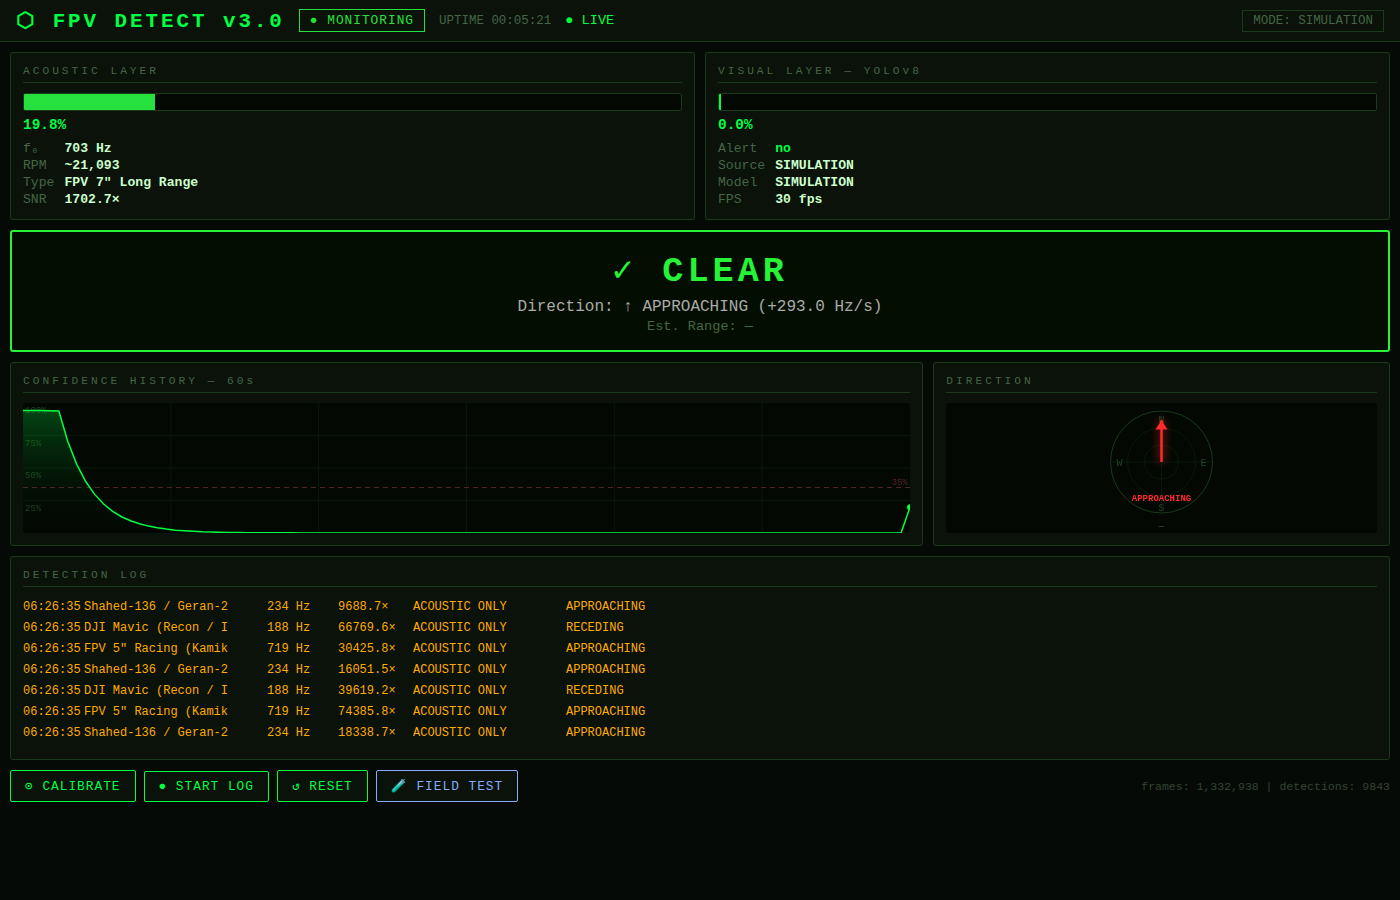
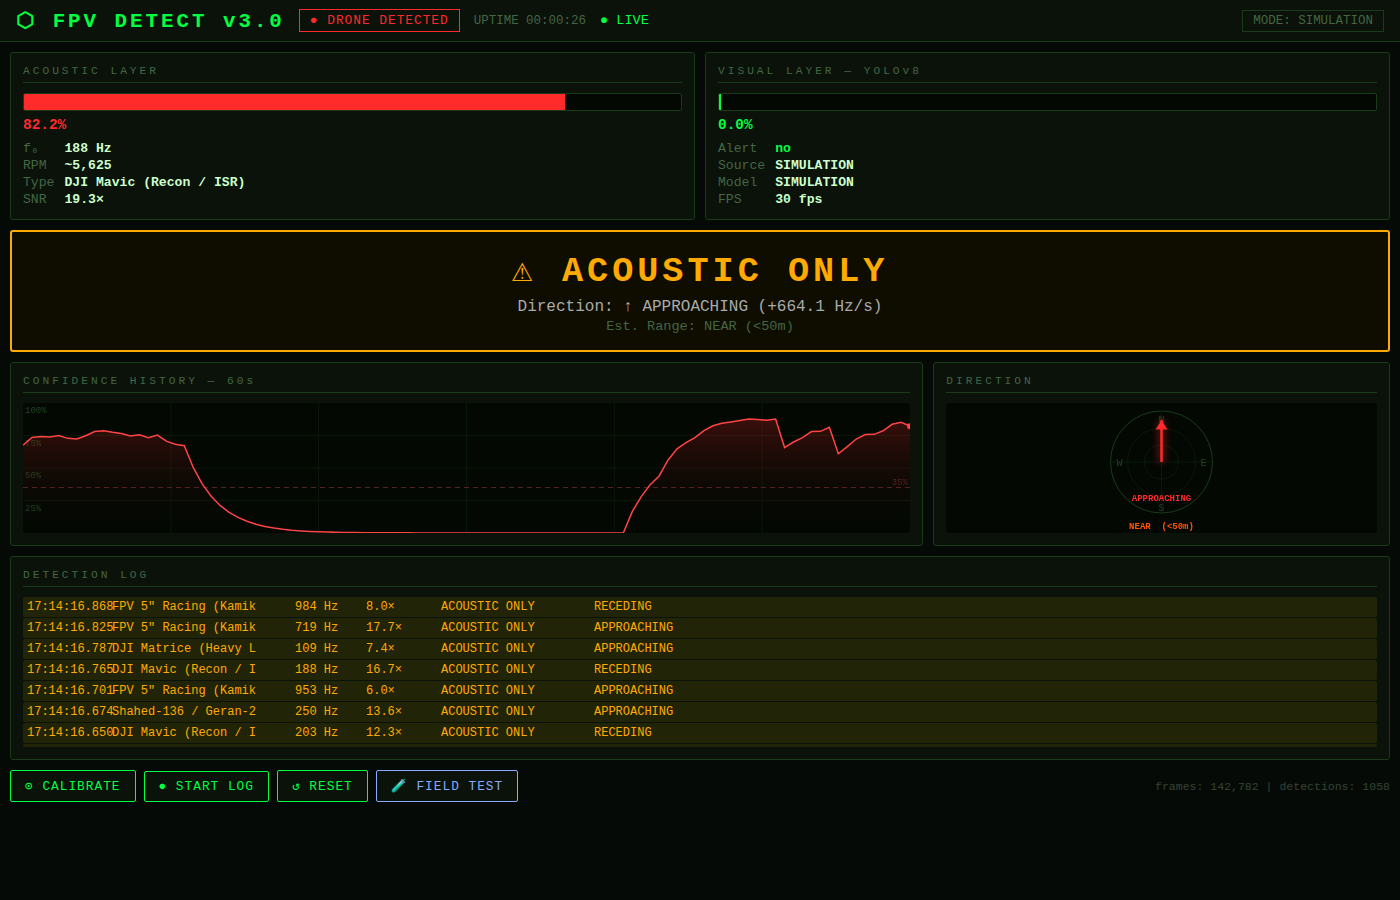
UI improvements: realistic SNR, timestamps, radar pulse, sound alerts, wizard
- SimulatedAudio: reduce amplitude 10000→120 so SNR is 6–15× (realistic)
- Detection log: millisecond timestamps so rapid events are distinguishable
- Threat border: remove CSS transition on border-color so it switches instantly
- Log rows: background tint per threat level (red/yellow/blue/none)
- Radar: dim arrow (opacity 0.22) when CLEAR; bright red + requestAnimationFrame
  pulse glow when APPROACHING + alarm active
- Sound alerts: Web Audio API beep on threat change (880Hz CONFIRMED, 440Hz ACOUSTIC ONLY)
- Wizard panel: Hebrew intro text RTL-aligned; all 7 steps always visible with
  ⬜/🔵/✅/❌ icons; 🔵 blink animation on current step; display names
  BASELINE/DETECTION/DOPPLER/RANGE 50m/MULTI-TYPE/VISUAL/REPORT

https://claude.ai/code/session_01XXFK8R6eK2YdHUDSUoeeWk

diff --git a/web_ui.py b/web_ui.py
@@ -522,7 +522,7 @@ body{background:#060a06;color:#00ff41;font-family:'Courier New',monospace;min-he
 .dg{display:grid;grid-template-columns:auto 1fr;gap:2px 10px;font-size:.82em}
 .dl{color:#446644}.dv{color:#ccffcc;font-weight:bold}
 /* ── Threat ── */
-#threat{grid-column:1/-1;text-align:center;padding:16px 10px;border:2px solid #1a3a1a;border-radius:3px;transition:border-color .3s,background .4s}
+#threat{grid-column:1/-1;text-align:center;padding:16px 10px;border:2px solid #1a3a1a;border-radius:3px;transition:background .4s}
 #threat.c-CONFIRMED{border-color:#ff0000;background:#120000;animation:pborder .8s infinite}
 #threat.c-ACOUSTIC{border-color:#ffaa00;background:#0e0d00}
 #threat.c-VISUAL{border-color:#4488ff;background:#00000e}
@@ -534,6 +534,8 @@ body{background:#060a06;color:#00ff41;font-family:'Courier New',monospace;min-he
 #thr-txt.c-VISUAL{color:#4488ff}
 #thr-txt.c-CLEAR{color:#00ff41}
 @keyframes blink{0%,49%{opacity:1}50%,100%{opacity:.25}}
+@keyframes wiz-blink{0%,100%{opacity:1}50%{opacity:.25}}
+.blink-step .ws-icon{animation:wiz-blink .9s infinite}
 #thr-dir{font-size:1em;color:#aaa;margin-top:4px}
 #thr-range{font-size:.85em;color:#446644;margin-top:3px}
 /* ── Canvas row ── */
@@ -543,8 +545,8 @@ canvas{display:block;width:100%;border-radius:2px}
 #log-block{grid-column:1/-1}
 #log-ul{list-style:none;max-height:150px;overflow-y:auto;font-size:.75em}
 #log-ul::-webkit-scrollbar{width:3px}#log-ul::-webkit-scrollbar-thumb{background:#1a3a1a}
-.le{padding:3px 0;border-bottom:1px solid #0a120a;display:grid;grid-template-columns:58px 180px 68px 72px 150px auto;gap:3px}
-.le.confirmed{color:#ff4444}.le.acoustic{color:#ffaa00}.le.visual{color:#5599ff}.le.clear{color:#446644}
+.le{padding:3px 4px;border-bottom:1px solid #0a120a;display:grid;grid-template-columns:82px 180px 68px 72px 150px auto;gap:3px;border-radius:2px}
+.le.confirmed{color:#ff4444;background:rgba(255,0,0,0.15)}.le.acoustic{color:#ffaa00;background:rgba(255,200,0,0.10)}.le.visual{color:#5599ff;background:rgba(0,100,255,0.10)}.le.clear{color:#446644}
 /* ── Controls ── */
 #ctrls{grid-column:1/-1;display:flex;gap:8px;align-items:center;flex-wrap:wrap}
 button{background:#0a120a;border:1px solid #00ff41;color:#00ff41;padding:7px 14px;
@@ -586,7 +588,7 @@ button.wiz-btn:hover{background:#0a0a20}
 .ws-pfill{height:100%;background:#00ff41;transition:width .5s}
 /* instruction box */
 #wiz-instr{background:#040d04;border:1px solid #00ff4144;border-radius:3px;padding:10px 12px;
-           font-size:.82em;line-height:1.5;color:#99ccaa;text-align:right}
+           font-size:.82em;line-height:1.5;color:#99ccaa;text-align:right;direction:rtl}
 /* wiz controls */
 #wiz-ctrls{display:flex;gap:6px;padding:0 0 4px 0;flex-wrap:wrap}
 #wiz-ctrls button{font-size:.78em;padding:6px 12px}
@@ -697,8 +699,8 @@ button.wiz-btn:hover{background:#0a0a20}
     <button id="wiz-close" onclick="closeWizard()" title="Close">✕</button>
   </div>
   <div id="wiz-body">
-    <div id="wiz-not-started" style="color:#446644;font-size:.85em;text-align:center;padding:20px">
-      לחץ BEGIN WIZARD להתחלת בדיקת שטח מודרכת
+    <div id="wiz-not-started" style="color:#446644;font-size:.85em;text-align:right;direction:rtl;padding:10px 12px;border-bottom:1px solid #1a3a1a;margin-bottom:4px">
+      לחץ ▶▶ BEGIN WIZARD להתחלת בדיקת שדה מודרכת
     </div>
     <div id="wiz-steps" style="display:none"></div>
     <div id="wiz-instr" style="display:none"></div>
@@ -713,6 +715,28 @@ button.wiz-btn:hover{background:#0a0a20}
 </div>
 
 <script>
+// ── Audio alerts (Web Audio API) ─────────────────────────────────────
+let _audioCtx = null, _prevThreat = 'CLEAR';
+function _initAudio() {
+  if (!_audioCtx) _audioCtx = new (window.AudioContext || window.webkitAudioContext)();
+  if (_audioCtx.state === 'suspended') _audioCtx.resume();
+}
+function _beep(freq, dur, vol) {
+  try {
+    _initAudio();
+    const o = _audioCtx.createOscillator(), g = _audioCtx.createGain();
+    o.connect(g); g.connect(_audioCtx.destination);
+    o.frequency.value = freq;
+    g.gain.setValueAtTime(vol, _audioCtx.currentTime);
+    g.gain.exponentialRampToValueAtTime(0.001, _audioCtx.currentTime + dur);
+    o.start(); o.stop(_audioCtx.currentTime + dur);
+  } catch(e) {}
+}
+document.addEventListener('click', _initAudio);
+
+// ── Radar RAF state ───────────────────────────────────────────────────
+let _lastRadar = {direction:'STABLE', rate:0, range:'', alarm:false};
+
 // ── WebSocket ────────────────────────────────────────────────────────
 let ws, reconnTimer, lastLogJSON = "";
 
@@ -789,6 +813,13 @@ function update(d) {
   document.getElementById('thr-dir').textContent  = `Direction: ${DIR[d.direction] || d.direction}${rate}`;
   document.getElementById('thr-range').textContent = `Est. Range: ${d.range_estimate || '—'}`;
 
+  // sound alert on threat change
+  if (d.combined_threat !== _prevThreat) {
+    if (d.combined_threat === 'CONFIRMED')     _beep(880, 0.4, 0.3);
+    if (d.combined_threat === 'ACOUSTIC ONLY') _beep(440, 0.25, 0.2);
+    _prevThreat = d.combined_threat;
+  }
+
   // stats
   document.getElementById('stats-r').textContent =
     `frames: ${d.frames.toLocaleString()} | detections: ${d.detections}`;
@@ -826,7 +857,7 @@ function update(d) {
 
   // canvases
   drawHistory(d.history || [], d.acoustic_confidence, d.alarm);
-  drawRadar(d.direction, d.direction_rate, d.range_estimate);
+  _lastRadar = {direction:d.direction, rate:d.direction_rate, range:d.range_estimate, alarm:d.alarm};
 
   // wizard
   if (d.wizard) updateWizard(d.wizard);
@@ -895,7 +926,7 @@ function drawHistory(hist, curConf, alarm) {
 }
 
 // ── Direction radar canvas ───────────────────────────────────────────
-function drawRadar(direction, rate, range) {
+function drawRadar(direction, rate, range, alarm) {
   const cv = document.getElementById('radar-cv');
   const card = document.getElementById('radar-card');
   const W = card.clientWidth - 24;
@@ -929,19 +960,34 @@ function drawRadar(direction, rate, range) {
 
   if (direction === 'STABLE') {
     ctx.beginPath(); ctx.arc(cx,cy,r*.18,0,2*Math.PI);
-    ctx.strokeStyle='#00ff41'; ctx.lineWidth=2; ctx.stroke();
-    ctx.fillStyle='#00ff4122'; ctx.fill();
-    ctx.fillStyle='#00ff41'; ctx.font='bold 8px Courier New'; ctx.textAlign='center';
+    ctx.strokeStyle = alarm ? '#00ff41' : '#224422'; ctx.lineWidth=2; ctx.stroke();
+    ctx.fillStyle = alarm ? '#00ff4122' : '#0a180a'; ctx.fill();
+    ctx.fillStyle = alarm ? '#00ff41' : '#224422';
+    ctx.font='bold 8px Courier New'; ctx.textAlign='center';
     ctx.fillText('STABLE',cx,cy+4); return;
   }
 
-  const ang   = direction==='APPROACHING' ? -Math.PI/2 : Math.PI/2;
-  const color = direction==='APPROACHING' ? '#ff2a2a' : '#ffaa00';
-  const alen  = r * (direction==='APPROACHING' ? .82 : .72);
+  const isHot   = alarm && direction === 'APPROACHING';
+  const isWarm  = alarm && direction === 'RECEDING';
+  const baseClr = direction === 'APPROACHING' ? '#ff2a2a' : '#ffaa00';
+  const dimClr  = direction === 'APPROACHING' ? 'rgba(255,42,42,0.22)' : 'rgba(255,170,0,0.22)';
+  const color   = (isHot || isWarm) ? baseClr : dimClr;
+  const lineW   = (isHot || isWarm) ? 2.5 : 1.2;
+
+  let shadowBlur = 0;
+  if (isHot) {
+    const pulse = 0.5 + 0.5 * Math.sin(Date.now() / 200);
+    shadowBlur = 8 + 20 * pulse;
+  } else if (isWarm) {
+    shadowBlur = 6;
+  }
+
+  const ang  = direction === 'APPROACHING' ? -Math.PI/2 : Math.PI/2;
+  const alen = r * (direction === 'APPROACHING' ? .82 : .72);
   const tx=cx+Math.cos(ang)*alen, ty=cy+Math.sin(ang)*alen;
 
-  ctx.shadowColor=color; ctx.shadowBlur=10;
-  ctx.strokeStyle=color; ctx.lineWidth=2.5;
+  ctx.shadowColor=baseClr; ctx.shadowBlur=shadowBlur;
+  ctx.strokeStyle=color; ctx.lineWidth=lineW;
   ctx.beginPath(); ctx.moveTo(cx,cy); ctx.lineTo(tx,ty); ctx.stroke();
   ctx.shadowBlur=0;
 
@@ -957,13 +1003,21 @@ function drawRadar(direction, rate, range) {
   ctx.fillText(direction, cx, cy+r-12);
 }
 
+function startRadarLoop() {
+  (function loop() {
+    drawRadar(_lastRadar.direction, _lastRadar.rate, _lastRadar.range, _lastRadar.alarm);
+    requestAnimationFrame(loop);
+  })();
+}
+
 // ── Controls ─────────────────────────────────────────────────────────
 function doCalibrate() { fetch('/calibrate',{method:'POST'}); }
 function doLog()       { fetch('/log/toggle',{method:'POST'}); }
 function doReset()     { fetch('/reset',{method:'POST'}); }
 
 // ── Wizard ───────────────────────────────────────────────────────────
-const STEP_ICONS = {pending:'○',waiting:'◎',running:'◉',pass:'✅',fail:'❌',skip:'⏭'};
+const STEP_ICONS = {pending:'⬜',waiting:'⬜',running:'🔵',pass:'✅',fail:'❌',skip:'⏭'};
+const STEP_DNAMES = ['BASELINE','DETECTION','DOPPLER','RANGE 50m','MULTI-TYPE','VISUAL','REPORT'];
 const STEP_COLORS = {pending:'#224422',waiting:'#446644',running:'#00ff41',pass:'#00aa33',fail:'#ff2a2a',skip:'#445544'};
 
 function openWizard()  { document.getElementById('wiz-panel').classList.add('open'); }
@@ -981,42 +1035,45 @@ function updateWizard(wiz) {
   const reportDiv  = document.getElementById('wiz-report');
   const btnStart   = document.getElementById('btn-wiz-start');
 
-  if (!wiz.active) {
-    notStarted.style.display='';
-    stepsDiv.style.display='none';
-    instrDiv.style.display='none';
-    ctrlsDiv.style.display='none';
-    reportDiv.style.display='none';
-    btnStart.style.display='';
-    return;
-  }
-
-  notStarted.style.display='none';
-  btnStart.style.display='none';
-  stepsDiv.style.display='';
-
-  // Build/update step list
-  const results = wiz.results || {};
+  // Always render step list
+  const results = wiz.active ? (wiz.results || {}) : {};
   let html = '';
-  for (let i=1; i<=7; i++) {
-    const r   = results[i] || {};
-    const st  = r.status || 'pending';
-    const isCurrent = i === wiz.current_step;
-    const icon = STEP_ICONS[st] || '○';
-    const color = STEP_COLORS[st] || '#224422';
-    const isRunning = st === 'running';
-    const progress = (isCurrent && isRunning) ? wiz.progress * 100 : (st === 'pass' || st === 'skip' ? 100 : 0);
-    const cls = `wstep ${st} ${isCurrent?'current':''}`;
-    html += `<div class="${cls}" style="border-color:${isCurrent?color:'#1a3a1a'}">
+  for (let i = 1; i <= 7; i++) {
+    const r          = results[i] || {};
+    const st         = r.status || 'pending';
+    const isCurrent  = wiz.active && i === wiz.current_step;
+    const isCurAct   = isCurrent && (st === 'waiting' || st === 'running');
+    const icon       = isCurAct ? '🔵' : (STEP_ICONS[st] || '⬜');
+    const blinkCls   = isCurAct ? ' blink-step' : '';
+    const color      = STEP_COLORS[st] || '#224422';
+    const nameColor  = isCurrent ? color : '#446644';
+    const isRunning  = st === 'running' && isCurrent;
+    const progress   = (isRunning && wiz.duration > 0) ? wiz.progress * 100
+                       : (st === 'pass' || st === 'skip') ? 100 : 0;
+    const bdrStyle   = isCurrent ? `border-color:${color}` : '';
+    html += `<div class="wstep ${st}${blinkCls}" style="${bdrStyle}">
       <div class="ws-icon" style="color:${color}">${icon}</div>
       <div class="ws-info">
-        <div class="ws-name" style="color:${isCurrent?color:'#446644'}">${r.name||'STEP '+i}</div>
-        ${r.message?`<div class="ws-msg">${r.message}</div>`:''}
-        ${isRunning&&wiz.duration>0?`<div class="ws-pbar"><div class="ws-pfill" style="width:${progress.toFixed(1)}%;background:${color}"></div></div>`:''}
+        <div class="ws-name" style="color:${nameColor}">${STEP_DNAMES[i-1]}</div>
+        ${r.message ? `<div class="ws-msg">${r.message}</div>` : ''}
+        ${isRunning && wiz.duration > 0 ? `<div class="ws-pbar"><div class="ws-pfill" style="width:${progress.toFixed(1)}%"></div></div>` : ''}
       </div>
     </div>`;
   }
   stepsDiv.innerHTML = html;
+  stepsDiv.style.display = '';
+
+  if (!wiz.active) {
+    notStarted.style.display = '';
+    instrDiv.style.display   = 'none';
+    ctrlsDiv.style.display   = 'none';
+    reportDiv.style.display  = 'none';
+    btnStart.style.display   = '';
+    return;
+  }
+
+  notStarted.style.display = 'none';
+  btnStart.style.display   = 'none';
 
   // Instruction
   if (wiz.instruction && wiz.current_step < 7) {
@@ -1027,30 +1084,30 @@ function updateWizard(wiz) {
   }
 
   // Controls
-  const curStatus = (results[wiz.current_step]||{}).status || 'pending';
+  const curStatus = (results[wiz.current_step] || {}).status || 'pending';
   if (wiz.current_step <= 6) {
     ctrlsDiv.style.display = 'flex';
-    document.getElementById('btn-wiz-begin').style.display = curStatus==='waiting'?'':'none';
-    document.getElementById('btn-wiz-skip').style.display  = wiz.skippable?'':'none';
-    document.getElementById('btn-wiz-retry').style.display = curStatus==='fail'?'':'none';
+    document.getElementById('btn-wiz-begin').style.display = curStatus === 'waiting' ? '' : 'none';
+    document.getElementById('btn-wiz-skip').style.display  = wiz.skippable ? '' : 'none';
+    document.getElementById('btn-wiz-retry').style.display = curStatus === 'fail' ? '' : 'none';
   } else {
     ctrlsDiv.style.display = 'none';
   }
 
   // Report
-  const repData = (results[7]||{});
+  const repData = (results[7] || {});
   if (repData.status === 'pass' && repData.message) {
     reportDiv.style.display = '';
-    const path = repData.message.replace('דוח שמור: ','');
-    reportDiv.innerHTML = `<div>${repData.overall||''}</div>
+    const path = repData.message.replace('דוח שמור: ', '');
+    reportDiv.innerHTML = `<div>${repData.overall || ''}</div>
       <a href="/${path}" target="_blank">📄 פתח דוח מלא</a>`;
   } else {
     reportDiv.style.display = 'none';
   }
 }
 
-// Serve report files
-window.addEventListener('resize', () => { drawHistory([],0,false); drawRadar('STABLE',0,''); });
+window.addEventListener('resize', () => { drawHistory([], 0, false); });
+startRadarLoop();
 connect();
 </script>
 </body>

diff --git a/ui_field.py b/ui_field.py
@@ -247,7 +247,7 @@ class DroneDetector:
 
         if self.alarm_active and not prev:
             self.total_detections += 1
-            entry = {"time": datetime.now().strftime("%H:%M:%S"), "type": label,
+            entry = {"time": datetime.now().strftime("%H:%M:%S.%f")[:-3], "type": label,
                      "threat": threat, "f0": round(result.get("f0", 0)),
                      "snr": round(result.get("snr", 0), 1),
                      "confidence": round(self.confidence_ema, 2),
@@ -293,10 +293,10 @@ class SimulatedAudio:
     _H = {"FPV_5INCH_RACING": (1.0, 0.55, 0.28, 0.14, 0.07, 0.04),
           "DJI_MAVIC_RECON":  (1.0, 0.40, 0.20, 0.10),
           "SHAHED_136":       (1.0, 0.65, 0.35, 0.20)}
-    _SEG = (( 2.0,  5.0,  700.0,  950.0, 10000, "FPV_5INCH_RACING"),
-            ( 5.0,  7.0,  950.0,  700.0,  8000, "FPV_5INCH_RACING"),
-            (10.0, 14.0,  183.0,  183.0,  8500, "DJI_MAVIC_RECON"),
-            (17.0, 22.0,  242.0,  242.0,  7000, "SHAHED_136"))
+    _SEG = (( 2.0,  5.0,  700.0,  950.0,  120, "FPV_5INCH_RACING"),
+            ( 5.0,  7.0,  950.0,  700.0,   80, "FPV_5INCH_RACING"),
+            (10.0, 14.0,  183.0,  183.0,   95, "DJI_MAVIC_RECON"),
+            (17.0, 22.0,  242.0,  242.0,   85, "SHAHED_136"))
     _CYCLE = 26.0
 
     def __init__(self):
